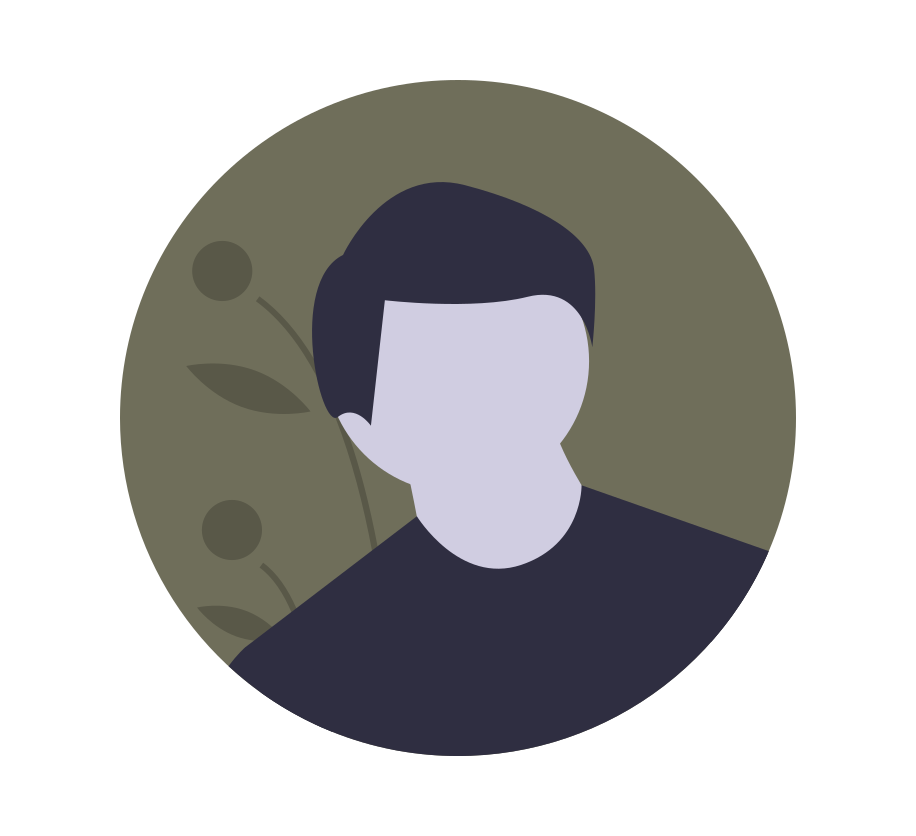
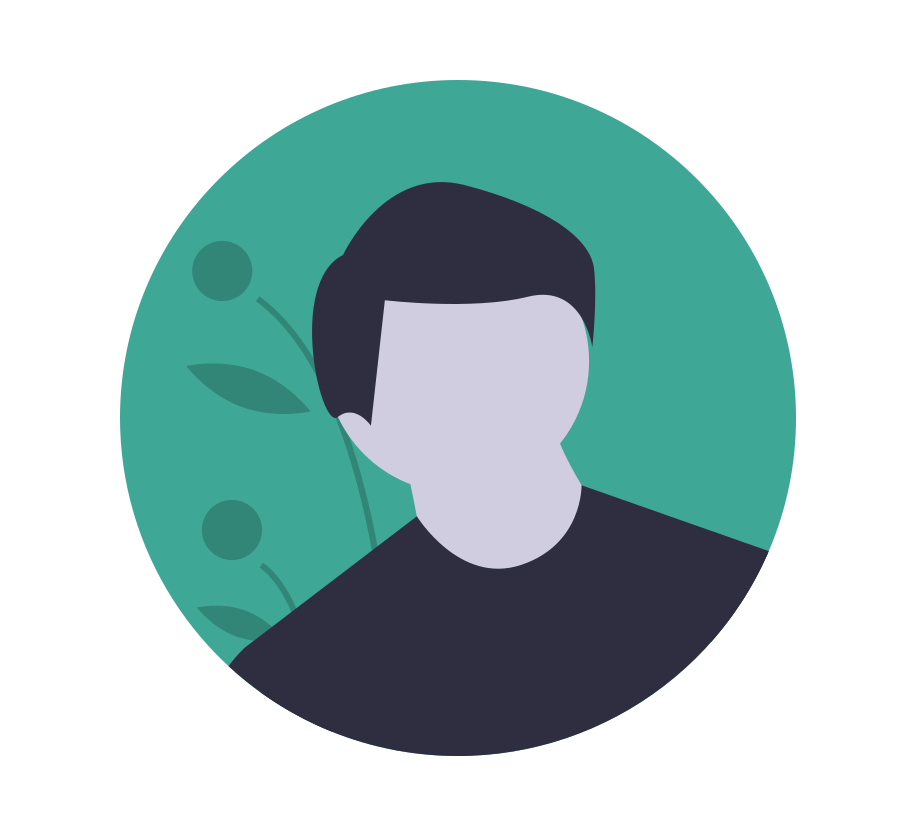
change color

Changed region(s): [[0.1223, 0.0933, 0.8865, 0.8086]]

diff --git a/lib/app/globals/constant.dart b/lib/app/globals/constant.dart
@@ -1,8 +1,8 @@
 import 'package:flutter/material.dart';
 import 'package:unicons/unicons.dart';
 
-const primaryColor = Color.fromARGB(255, 111, 110, 90);
-const secondaryColor = Color.fromARGB(255, 171, 169, 135);
+const primaryColor = Color.fromARGB(255, 63, 167, 150);
+const secondaryColor = Color.fromARGB(255, 103, 213, 194);
 const canvasColor = Colors.white;
 
 const List<Map<String, dynamic>> listNavItem = [
